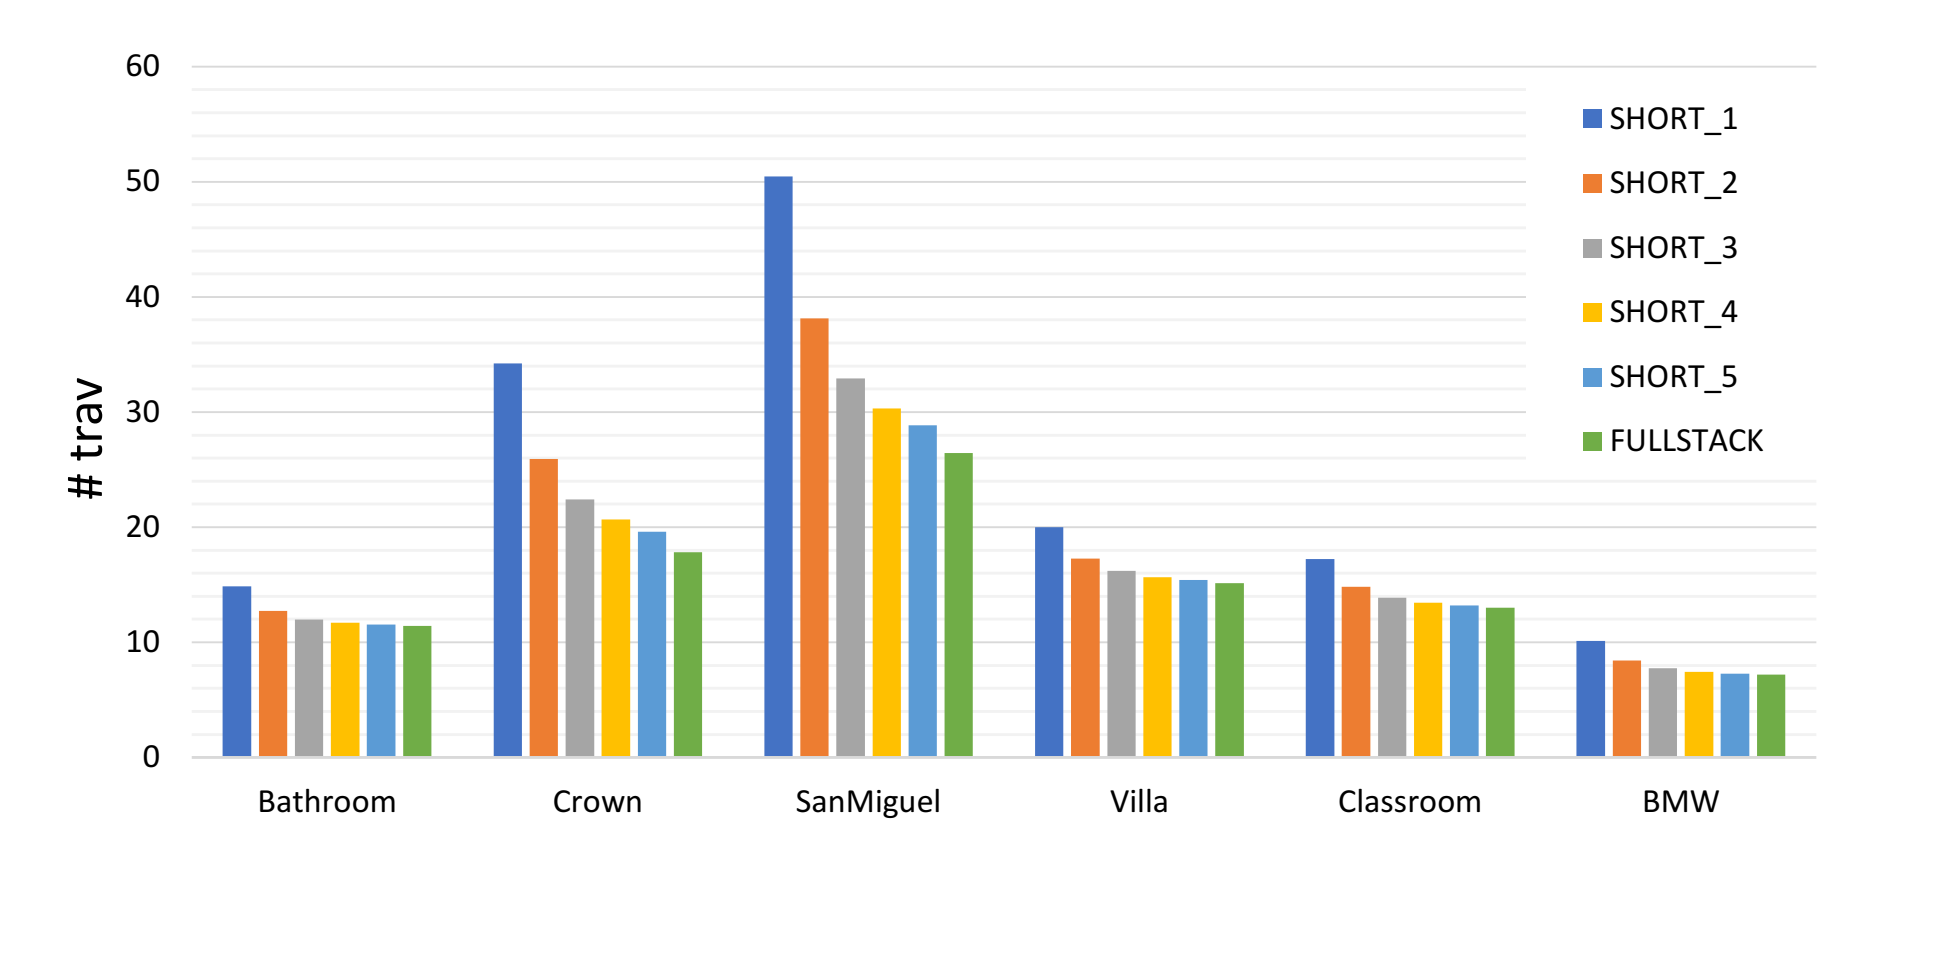
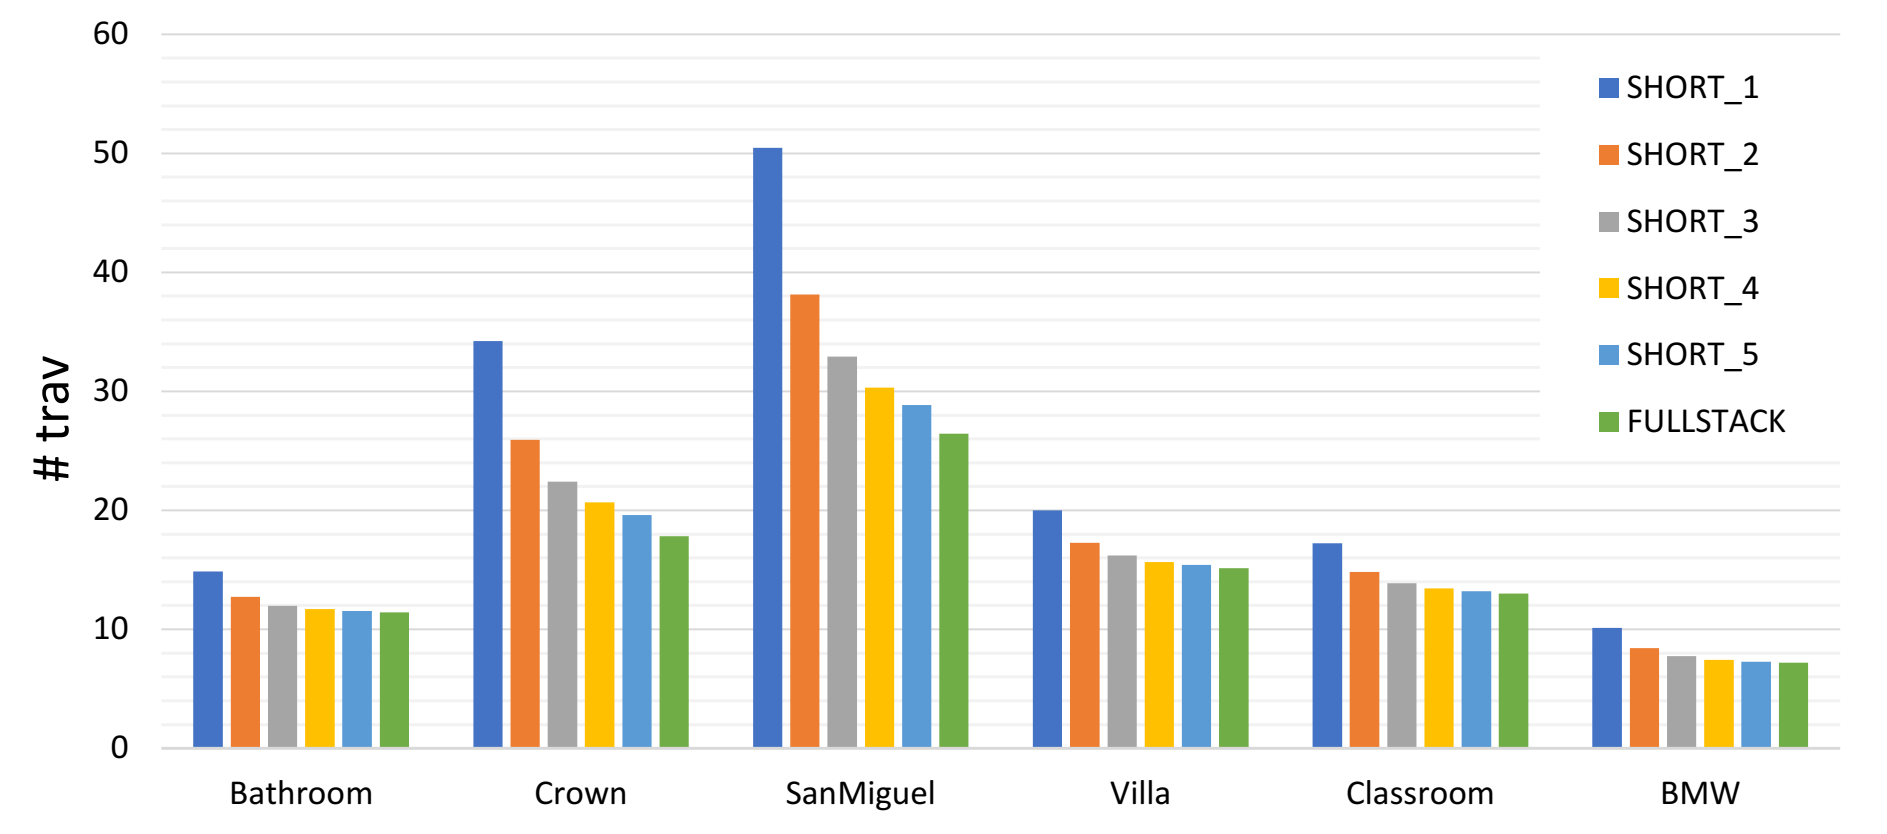
more shortstack paper

diff --git a/related.html b/related.html
@@ -62,7 +62,7 @@
 Embree Related Papers
 </h1>
 
-<p><strong>Wide BVH Traversal with a Short Stack</strong> <br> Karthik Vaidyanathan, Sven Woop, and Carsten Benthin <br> <i>To appear at High Performance Graphics 2019</i> <br> [<a href="papers/2019-HPG-ShortStack.pdf">pdf</a>], [<a href="papers/2019-HPG-ShortStack.bib">bib</a>] <br> <br> <a href="papers/2019-HPG-ShortStack-000.png"><img src="papers/2018-HPG-ShortStack-000.png"></a> <br><br></p>
+<p><strong>Wide BVH Traversal with a Short Stack</strong> <br> Karthik Vaidyanathan, Sven Woop, and Carsten Benthin <br> <i>To appear at High Performance Graphics 2019</i> <br> [<a href="papers/2019-HPG-ShortStack.pdf">pdf</a>], [<a href="papers/2019-HPG-ShortStack.bib">bib</a>] <br> <br> <a href="papers/2019-HPG-ShortStack-000.png"><img src="papers/2019-HPG-ShortStack-000-thumb.jpg"></a> <br><br></p>
 
 <p><strong>Compressed-Leaf Bounding Volume Hierarchies</strong> <br> Carsten Benthin, Ingo Wald, Sven Woop, and Attila T. Afra <br> <i>High Performance Graphics 2018</i> <br> [<a href="papers/2018-HPG-compressedleafbvh.pdf">pdf</a>], [<a href="papers/2018-HPG-compressedleafbvh.bib">bib</a>] <br> <br> <a href="papers/2018-HPG-compressedleafbvh-000.png"><img src="papers/2018-HPG-compressedleafbvh-000-thumb.jpg"></a> <a href="papers/2018-HPG-compressedleafbvh-001.png"><img src="papers/2018-HPG-compressedleafbvh-001-thumb.jpg"></a> <a href="papers/2018-HPG-compressedleafbvh-002.png"><img src="papers/2018-HPG-compressedleafbvh-002-thumb.jpg"></a> <a href="papers/2018-HPG-compressedleafbvh-003.png"><img src="papers/2018-HPG-compressedleafbvh-003-thumb.jpg"></a> <br><br></p>
 <p><strong>STBVH: A Spatial-Temporal BVH for Efficient Multi-Segment Motion Blur</strong> <br> Sven Woop, Attila T. Áfra, and Carsten Benthin <br> <i>High Performance Graphics 2017</i> <br> [<a href="papers/2017-HPG-msmblur.pdf">pdf</a>], [<a href="papers/2017-HPG-msmblur.bib">pdf</a>] <br> <br> <a href="papers/2017-HPG-msmblur-000.png"><img src="papers/2017-HPG-msmblur-000-thumb.jpg"></a> <a href="papers/2017-HPG-msmblur-001.png"><img src="papers/2017-HPG-msmblur-001-thumb.jpg"></a> <a href="papers/2017-HPG-msmblur-002.png"><img src="papers/2017-HPG-msmblur-002-thumb.jpg"></a> <br><br></p>
